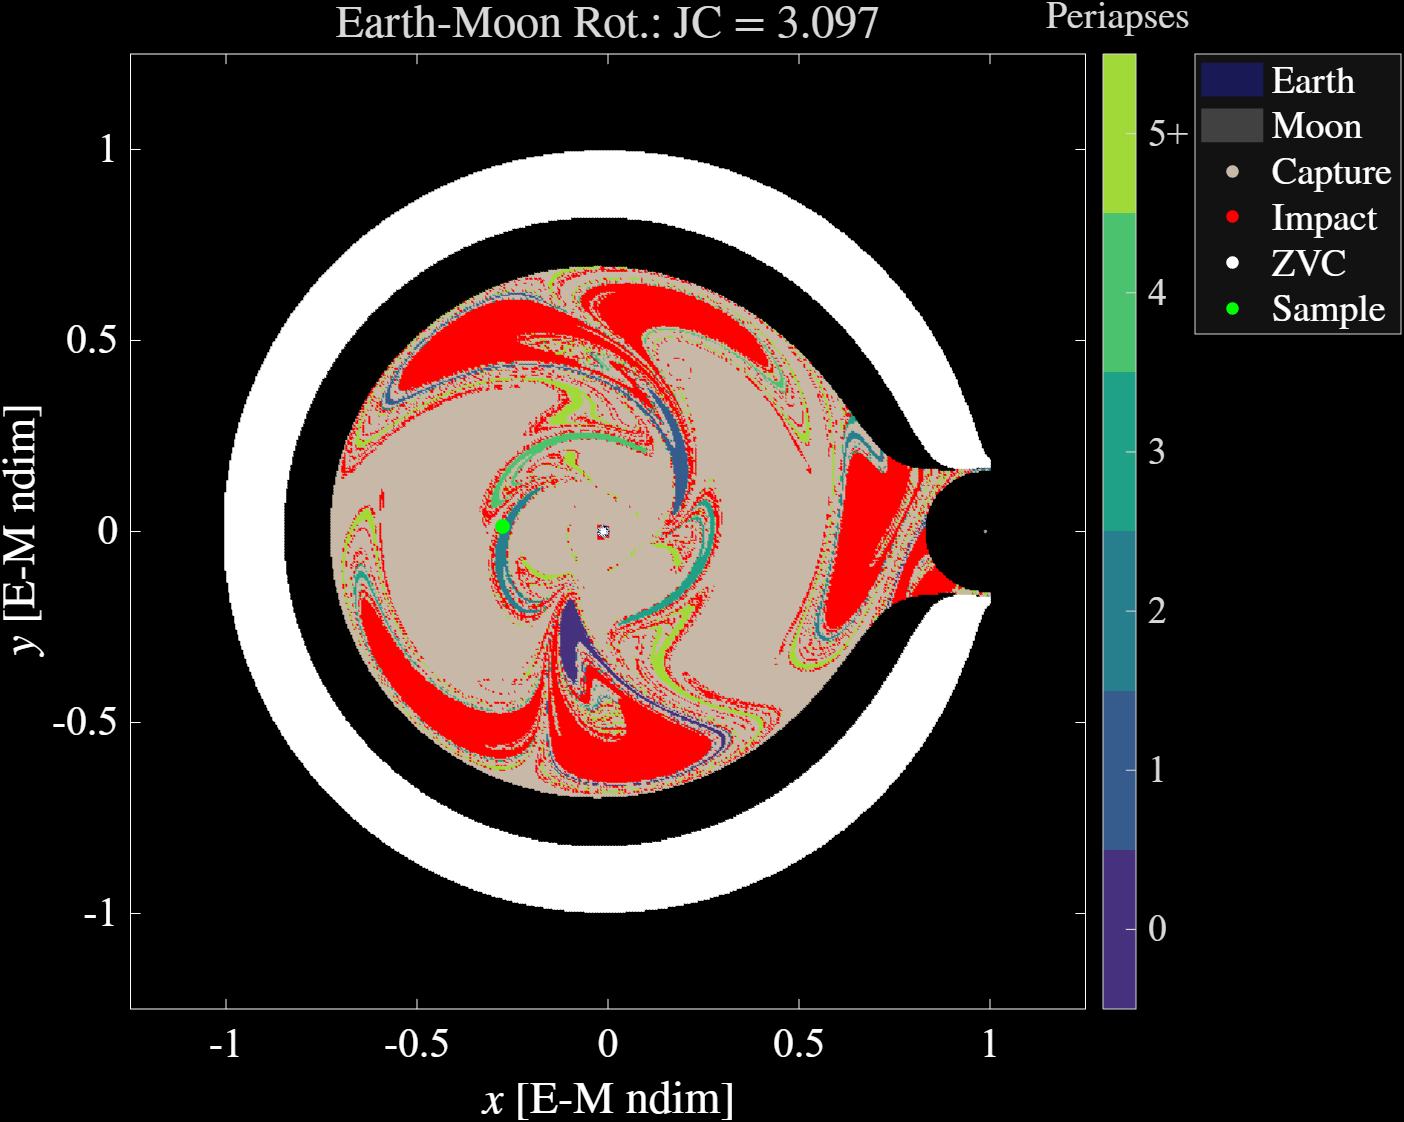
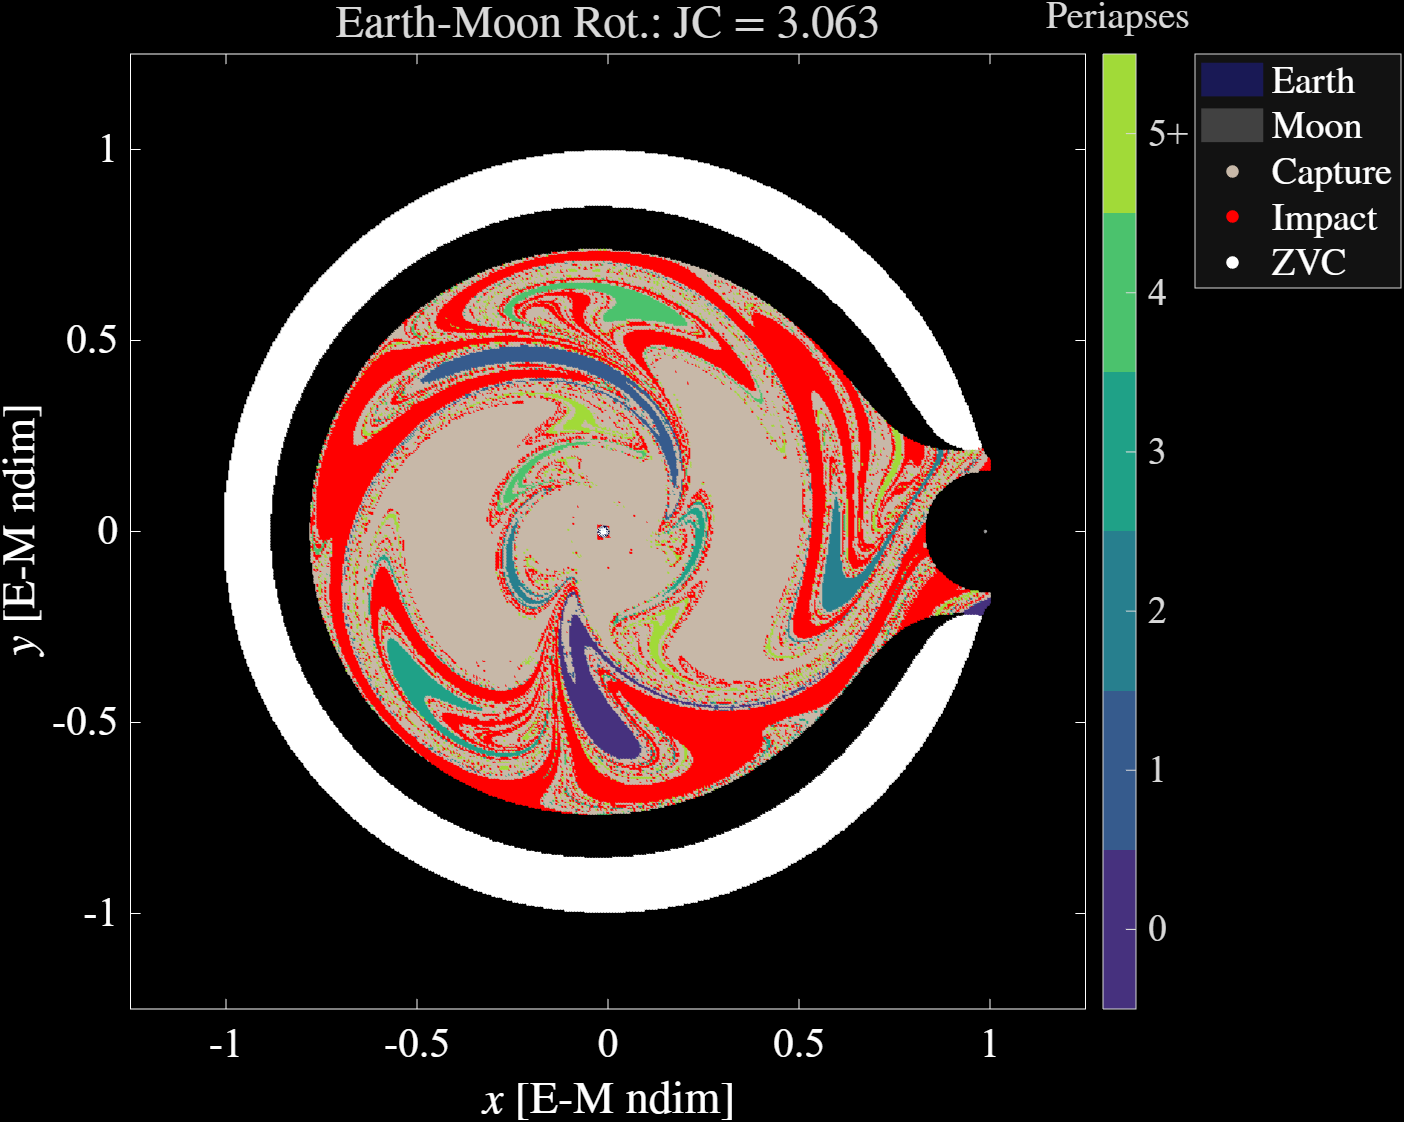
Updated EscapeCR3BP script

Changed region(s): [[0.1838, 0.156, 0.7044, 0.7799], [0.8575, 0.2184, 1.0, 0.3119], [0.5819, 0.0, 0.6432, 0.0312]]

diff --git a/EscapeCR3BP.m b/EscapeCR3BP.m
@@ -1,7 +1,7 @@
 %%% EscapeCR3BP.jl
 %%% Jonathan LeFevre Richmond
 %%% C: 16 June 2026
-%%% U: 10 September 2026
+%%% U: 17 September 2026
 
 clear
 
@@ -137,6 +137,7 @@ b4SE = sqrt(3)/2;
 b5SE = -b4SE;
 
 RSoIE = 0.09877*lstarSE; % Earth sphere of influence radius [km]
+rHill = 3.8897077389538994; % Earth Hill sphere radius
 
 %% Sun-Mars Data
 gmM = 4.282837362069909E4; % Mars gravitational parameter [km^3/s^2]
@@ -223,12 +224,12 @@ colorMap(10,:) = [1, 1, 1]; % ZVC
 % trajPeriStates = apseData.peris;
 % trajApoStates = apseData.apos;
 
-% xTrajSample = 0.192876;
-% yTrajSample = 0.434743;
-% trajIdx = find((abs(xPeri-xTrajSample) < 1E-5) & (abs(yPeri-yTrajSample) < 1E-5))
-% trajIdx = 63 % Indirect
-% trajIdx = 75 % Capture
-% trajIdx = 22 % Capture with option for high-energy maneuver
+% % xTrajSample = -0.0650211;
+% % yTrajSample = 0.208377;
+% % trajIdx = find((abs(xPeri-xTrajSample) < 1E-5) & (abs(yPeri-yTrajSample) < 1E-5))
+% % trajIdx = 63 % Indirect
+% trajIdx = 99 % Capture
+% % trajIdx = 22 % Capture with option for high-energy maneuver
 
 %% Map
 % fig1 = figure("Position", [200 100 1200 750]);
@@ -243,7 +244,9 @@ colorMap(10,:) = [1, 1, 1]; % ZVC
 % scatter(nan, nan, 20, colorMap(10,:), 'filled', 'DisplayName', "ZVC")
 % % scatter(xPeri, yPeri, 30, 'm', 'filled', 'DisplayName', "Manifold Peris.")
 % % scatter(xPeri(trajIdx), yPeri(trajIdx), 50, 'g', 'filled', 'DisplayName', "Sample")
-% % scatter(sol1.y(1,1), sol1.y(2,1), 50, 'g', 'filled', 'DisplayName', "Sample")
+% % scatter(sol1.y(1,1), sol1.y(2,1), 50, 'c', 'filled', 'HandleVisibility', 'off')
+% % scatter(sol2.y(1,1), sol2.y(2,1), 50, 'c', 'filled', 'HandleVisibility', 'off')
+% % scatter3(trajPeriStates(1,:), trajPeriStates(2,:), trajPeriStates(3,:), 50, 'c', 'o', 'filled', 'HandleVisibility', 'off')
 % axis equal
 % if primary == "Moon"
 %     axis([1-muEM-0.2 1-muEM+0.2 -0.2 0.2])
@@ -277,19 +280,12 @@ odeCR3BPEM = @(t,r) ODE_CR3BP(t, r, muEM);
 odeOpts = odeset('RelTol', 1E-12, 'AbsTol', 1E-12);
 
 %% Test Trajectory
-% xSample = -0.498998;
-% ySample = 0.0661323;
+% xSample = -0.158317;
+% ySample = 0.102204;
 % idx = find((abs(xGrid-xSample) < 1E-5) & (abs(yGrid-ySample) < 1E-5))
-
-% Perigee
 % idx = 46420 % Direct
 % idx = 124010 % Indirect
 % idx = 133530 % Failure
-
-% Prograde apogee
-% idx = 60181 % Failure
-
-% Retrograde apogee
 
 % q = map.q(:,idx);
 % % q = initialStates(:,trajIdx);
@@ -333,27 +329,25 @@ odeOpts = odeset('RelTol', 1E-12, 'AbsTol', 1E-12);
 
 %% Trajectory Analysis
 % solOrbit = ode89(odeCR3BPEM, [0 tOrbit], qOrbit, odeOpts);
-% 
 % disp("Initial State: ["+trajq0(1)+", "+trajq0(2)+", "+trajq0(3)+", "+trajq0(4)+", "+trajq0(5)+", "+trajq0(6)+"]")
-% disp("Original escape energy:"+trajEscE)
-% disp("Original escape velocity:"+trajEscv)
+% disp("Original departure energy:"+trajEscE)
+% disp("Original departure velocity:"+trajEscv)
 % tau = 12*pi;
 % sol = ode89(odeCR3BPEM, [0 periTimes(trajIdx)+tau], initialStates(:,trajIdx), odeOpts);
-% % if trajt1 > 0
-% %     sol0 = ode89(odeCR3BPEM, [0 trajt1], trajq0, odeOpts);
-% % end
-% % disp("Delta-v 1: "+trajDeltav1*1000*lstarEM/tstarEM+" m/s")
-% % disp("Indirect State: ["+trajq1(1)+", "+trajq1(2)+", "+trajq1(3)+", "+trajq1(4)+", "+trajq1(5)+", "+trajq1(6)+"]")
-% % if trajt2 > 0
-% %     sol1 = ode89(odeCR3BPEM, [trajt1 trajt1+trajt2], trajq1, odeOpts);
-% % end
-% % disp("Delta-v 2: "+trajDeltav2*1000*lstarEM/tstarEM+" m/s")
-% % disp("Escape State: ["+trajq2(1)+", "+trajq2(2)+", "+trajq2(3)+", "+trajq2(4)+", "+trajq2(5)+", "+trajq2(6)+"]")
-% % sol2 = ode89(odeCR3BPEM, [trajt1+trajt2 trajt1+trajt2+1.5*pi], trajq2, odeOpts);
-% % disp("New JC: "+trajNewJC)
-% % disp("New escape energy:"+trajNewEscE)
-% % disp("New escape velocity:"+trajNewEscv)
-% % disp("Escape metric:"+(trajNewEscv-trajEscv)/((abs(trajDeltav1)+abs(trajDeltav2))*lstarEM/tstarEM))
+% sol0 = ode89(odeCR3BPEM, [0 periTimes(trajIdx)+trajt1], initialStates(:,trajIdx), odeOpts);
+% disp("Delta-v 1: "+trajDeltav1*1000*lstarEM/tstarEM+" m/s")
+% disp("Indirect State: ["+trajq1(1)+", "+trajq1(2)+", "+trajq1(3)+", "+trajq1(4)+", "+trajq1(5)+", "+trajq1(6)+"]")
+% if trajt2 > 0
+%     sol1 = ode89(odeCR3BPEM, [trajt1 trajt1+trajt2], trajq1, odeOpts);
+% end
+% sol15 = ode89(odeCR3BPEM, [trajt1 trajt1+trajt2+1.5*pi], trajq1, odeOpts);
+% disp("Delta-v 2: "+trajDeltav2*1000*lstarEM/tstarEM+" m/s")
+% disp("Escape State: ["+trajq2(1)+", "+trajq2(2)+", "+trajq2(3)+", "+trajq2(4)+", "+trajq2(5)+", "+trajq2(6)+"]")
+% sol2 = ode89(odeCR3BPEM, [trajt1+trajt2 trajt1+trajt2+3*pi], trajq2, odeOpts);
+% disp("New JC: "+trajNewJC)
+% disp("New departure energy:"+trajNewEscE)
+% disp("New departure velocity:"+trajNewEscv)
+% disp("Departure metric:"+(trajNewEscv-trajEscv)/((abs(trajDeltav1)+abs(trajDeltav2))*lstarEM/tstarEM))
 
 % fig13 = figure("Position", [200 100 1200 750]);
 % hold on
@@ -363,34 +357,37 @@ odeOpts = odeset('RelTol', 1E-12, 'AbsTol', 1E-12);
 % set(Moon, 'DisplayName', "Moon")
 % scatter3(a1EM, 0, 0, 20, 'r', 'filled', 'd', 'DisplayName', "EM $L_{1}$")
 % scatter3(a2EM, 0, 0, 20, [1 0.5 0], 'filled', 'd', 'DisplayName', "EM $L_{2}$")
+% plot3(rHill.*cos(linspace(0, 2*pi, 1001)), rHill.*sin(linspace(0, 2*pi, 1001)), zeros(1,1001), 'w:', 'DisplayName', "Hills Sphere")
 % % plot3(solOrbit.y(1,:), solOrbit.y(2,:), solOrbit.y(3,:), 'g:', 'DisplayName', "Orbit")
 % p131 = plot3WithArrows(solOrbit.y(1,:), solOrbit.y(2,:), solOrbit.y(3,:), 'LineType', ':', 'Color', 'g', 'NumArrows', 2, 'ArrowScale', 5);
 % set(p131, 'DisplayName', "Orbit")
 % % plot3(sol.y(1,:), sol.y(2,:), sol.y(3,:), 'm', 'DisplayName', "Orig. Traj.")
 % p132 = plot3WithArrows(sol.y(1,:), sol.y(2,:), sol.y(3,:), 'Color', 'm', 'NumArrows', 10, 'ArrowScale', 1);
 % set(p132, 'DisplayName', "Orig. Traj.")
-% scatter3(trajq0(1), trajq0(2), trajq0(3), 50, 'g', 'o', 'filled', 'DisplayName', "Sample Perigee")
-% % if trajt1 > 0
-% %     % plot3(sol0.y(1,:), sol0.y(2,:), sol0.y(3,:), 'b', 'HandleVisibility', 'off')
-% %     p133 = plot3WithArrows(sol0.y(1,:), sol0.y(2,:), sol0.y(3,:), 'Color', 'b', 'NumArrows', 3, 'ArrowScale', 1.5);
-% %     set(p133, 'HandleVisibility', 'off')
-% % end
-% % if trajt2 > 0
-% %     % plot3(sol1.y(1,:), sol1.y(2,:), sol1.y(3,:), 'b', 'HandleVisibility', 'off')
-% %     p134 = plot3WithArrows(sol1.y(1,:), sol1.y(2,:), sol1.y(3,:), 'Color', 'b', 'NumArrows', 3, 'ArrowScale', 1.5);
-% %     set(p134, 'HandleVisibility', 'off')
-% % end
-% % % plot3(sol2.y(1,:), sol2.y(2,:), sol2.y(3,:), 'b', 'DisplayName', "Assisted Traj.")
-% % p135 = plot3WithArrows(sol2.y(1,:), sol2.y(2,:), sol2.y(3,:), 'Color', 'b', 'NumArrows', 2, 'ArrowScale', 1.5);
-% % set(p135, 'DisplayName', "Assisted Traj.")
-% % if abs(trajDeltav1) > 0
-% %     scatter3(sol1.y(1,1), sol1.y(2,1), sol1.y(3,1), 50, 'w', 's', 'filled', 'DisplayName', "Man. 1")
-% % end
-% % if abs(trajDeltav2) > 0
-% %     scatter3(sol2.y(1,1), sol2.y(2,1), sol2.y(3,1), 50, 'w', '^', 'filled', 'DisplayName', "Man. 2")
-% % end
+% % scatter(sol1.y(1,1), sol1.y(2,1), 50, 'c', 'filled', 'HandleVisibility', 'off')
+% % scatter3(trajPeriStates(1,:), trajPeriStates(2,:), trajPeriStates(3,:), 50, 'c', 'o', 'filled', 'HandleVisibility', 'off')
+% % scatter3(trajq0(1), trajq0(2), trajq0(3), 50, 'g', 'o', 'filled', 'DisplayName', "Sample Perigee")
+% plot3(sol0.y(1,:), sol0.y(2,:), sol0.y(3,:), 'b', 'DisplayName', "New Traj.")
+% % % plot3(sol15.y(1,:), sol15.y(2,:), sol15.y(3,:), 'b', 'HandleVisibility', 'off')
+% % p134 = plot3WithArrows(sol15.y(1,:), sol15.y(2,:), sol15.y(3,:), 'Color', 'b', 'NumArrows', 10, 'ArrowScale', 0.5);
+% % set(p134, 'HandleVisibility', 'off')
+% % scatter(sol2.y(1,1), sol2.y(2,1), 50, 'c', 'filled', 'HandleVisibility', 'off')
+% if trajt2 > 0
+%     % plot3(sol1.y(1,:), sol1.y(2,:), sol1.y(3,:), 'b', 'HandleVisibility', 'off')
+%     p134 = plot3WithArrows(sol1.y(1,:), sol1.y(2,:), sol1.y(3,:), 'Color', 'b', 'NumArrows', 5, 'ArrowScale', 1.2);
+%     set(p134, 'HandleVisibility', 'off')
+% end
+% % plot3(sol2.y(1,:), sol2.y(2,:), sol2.y(3,:), 'b', 'HandleVisibility', 'off')
+% p135 = plot3WithArrows(sol2.y(1,:), sol2.y(2,:), sol2.y(3,:), 'Color', 'b', 'NumArrows', 2, 'ArrowScale', 1);
+% set(p135, 'HandleVisibility', 'off')
+% if abs(trajDeltav1) > 0
+%     scatter3(sol1.y(1,1), sol1.y(2,1), sol1.y(3,1), 50, 'w', 's', 'filled', 'DisplayName', "Man. 1")
+% end
+% if abs(trajDeltav2) > 0
+%     scatter3(sol2.y(1,1), sol2.y(2,1), sol2.y(3,1), 50, 'w', '^', 'filled', 'DisplayName', "Man. 2")
+% end
 % axis equal
-% axis([-1.25 1.25 -1.25 1.25])
+% % axis([-1.25 1.25 -1.25 1.25])
 % % axis([1-muEM-0.3 1-muEM+0.3 -0.3 0.3])
 % grid on
 % xlabel("$x$ [E-M ndim]", 'Interpreter', 'latex')
@@ -412,7 +409,7 @@ odeOpts = odeset('RelTol', 1E-12, 'AbsTol', 1E-12);
 % disp("Initial State: ["+trajApo(1)+", "+trajApo(2)+", "+trajApo(3)+", "+trajApo(4)+", "+trajApo(5)+", "+trajApo(6)+"]")
 % tau = 12*pi;
 % sol = ode89(odeCR3BPEM, [0 tau], trajApo, odeOpts);
-% trajPeri = trajPeriStates(:,9);
+% trajPeri = trajPeriStates(:,10);
 % vMag = norm(trajPeri(4:6));
 % vhat = trajPeri(4:6)./vMag;
 % DeltavHigh = 1000*tstarEM/lstarEM/1000;
@@ -442,7 +439,7 @@ odeOpts = odeset('RelTol', 1E-12, 'AbsTol', 1E-12);
 % disp("New Altered Perigee State: ["+qHigh2(1)+", "+qHigh2(2)+", "+qHigh2(3)+", "+qHigh2(4)+", "+qHigh2(5)+", "+qHigh2(6)+"]")
 % tau2 = 2*pi;
 % sol2 = ode89(odeCR3BPEM, [0 tau2], qHigh2, odeOpts);
-
+% 
 % fig14 = figure("Position", [200 100 1200 750]);
 % hold on
 % Earth = plot3DBody("Earth", RE/lstarEM, [-muEM, 0, 0]);
@@ -501,9 +498,13 @@ odeOpts = odeset('RelTol', 1E-12, 'AbsTol', 1E-12);
 % d_min = min(ds_filt0);
 % d_max = max(ds_filt0);
 % 
-% % Deltav2s = analysisData.Deltav2s;
-% % escEs = analysisData.EscapeEs;
+% Deltav2s = analysisData.Deltav2s;
+% Deltav2bs = analysisData.Deltav2bs;
+% escvs = analysisData.Escapevs;
+% escvbs = analysisData.Escapevbs;
 % % DeltaEs = analysisData.DeltaEs;
+% gammas = analysisData.metrics;
+% gammabs = analysisData.metricbs;
 % 
 % escE = analysisData.escE;
 % escv = analysisData.escv;
@@ -517,15 +518,21 @@ odeOpts = odeset('RelTol', 1E-12, 'AbsTol', 1E-12);
 %% Escape Analysis
 % fig8 = figure("Position", [200 100 1200 750]);
 % hold on
-% scatter(Deltav2s.*1000.*lstarEM./tstarEM, escEs, 20, 'filled', 'HandleVisibility', 'off')
+% scatter(Deltav2s.*1000.*lstarEM./tstarEM, escvs, 20, 'filled', 'DisplayName', "Direct")
+% % scatter(Deltav2bs.*1000.*lstarEM./tstarEM, escvbs, 20, 'filled', 'DisplayName', "Indirect")
+% % scatter(Deltav2s.*1000.*lstarEM./tstarEM, gammas, 20, 'filled', 'DisplayName', "Direct")
+% % scatter(Deltav2bs.*1000.*lstarEM./tstarEM, gammabs, 20, 'filled', 'DisplayName', "Indirect")
 % % scatter(Deltav2s.*1000.*lstarEM./tstarEM, DeltaEs, 20, 'filled', 'HandleVisibility', 'off')
 % % scatter(Deltav2s.*1000.*lstarEM./tstarEM, flybys, 20, 'filled', 'HandleVisibility', 'off')
+% % ylim([-60 60])
 % xlabel("$\Delta v_{2}$ [m/s]", 'Interpreter', 'latex')
 % % xlabel("JC", 'Interpreter', 'latex')
-% ylabel("$\mathcal{E}_{esc}$ [km$^{2}$/s$^{2}$]", 'Interpreter', 'latex')
+% % ylabel("$\mathcal{v}_{dep}$ [km/s]", 'Interpreter', 'latex')
+% ylabel("$\gamma_{esc}$", 'Interpreter', 'latex')
 % % ylabel("$d\mathcal{E}_{esc}/d\alpha$ [km/s]", 'Interpreter', 'latex')
 % % ylabel("$r_{p}$ [km]", 'Interpreter', 'latex')
 % title("Maneuver Optimization", 'Interpreter', 'latex')
+% leg8 = legend('Location', 'bestoutside', 'Interpreter', 'latex');
 % set(gca, 'Color', 'k');
 % view(2)
 % hold off
@@ -535,8 +542,8 @@ odeOpts = odeset('RelTol', 1E-12, 'AbsTol', 1E-12);
 
 % qOrig = map.q(:,idx);
 % disp("IC: ["+qOrig(1)+", "+qOrig(2)+", "+qOrig(3)+", "+qOrig(4)+", "+qOrig(5)+", "+qOrig(6)+"]")
-% disp("Original escape energy:"+escE)
-% disp("Original escape velocity:"+escv)
+% disp("Original departure energy:"+escE)
+% disp("Original departure velocity:"+escv)
 % tauOrig = 12*pi;
 % solOrig = ode89(odeCR3BPEM, [0 tauOrig], qOrig, odeOpts);
 
@@ -555,8 +562,8 @@ odeOpts = odeset('RelTol', 1E-12, 'AbsTol', 1E-12);
 % solAssist2 = ode89(odeCR3BPEM, [0 tauAssist2], q2, odeOpts);
 
 % disp("New JC: "+newJC)
-% disp("New escape energy:"+newEscE)
-% disp("New escape velocity:"+newEscv)
+% disp("New departure energy:"+newEscE)
+% disp("New departure velocity:"+newEscv)
 
 % fig9 = figure("Position", [200 100 1200 750]);
 % hold on
@@ -712,8 +719,8 @@ odeOpts = odeset('RelTol', 1E-12, 'AbsTol', 1E-12);
 % % exportgraphics(fig5, 'EscapeCR3BP_5.png','BackgroundColor', 'k')
 
 %% Import JC Volume Data
-% volumeFile = 'E:/ApseMapData/CR3BPJCVolume_1_apo_pro_500_2.9_3.17.mat';
-% volumeDataFile = 'CR3BPJCVolume_1_apo_pro_500_2.9_3.17.mat';
+% volumeFile = 'E:/ApseMapData/CR3BPJCVolume_1_peri_pro_500_2.9_3.17.mat';
+% volumeDataFile = 'CR3BPJCVolume_1_peri_pro_500_2.9_3.17.mat';
 
 % volumeFields = who('-file', volumeFile);
 % nVolume = length(volumeFields);
@@ -867,6 +874,7 @@ odeOpts = odeset('RelTol', 1E-12, 'AbsTol', 1E-12);
 % DeltavColors = rdbuInvert(1000);
 % % DeltavColors = rdbu(1000);
 % maxDeltav = 30;
+% % maxDeltav = 50;
 % parfor j = 1:n
 %     if isnan(totalDeltavs(j))
 %         pointColors(j,:) = [1, 1, 1];
@@ -884,7 +892,7 @@ odeOpts = odeset('RelTol', 1E-12, 'AbsTol', 1E-12);
 % %         pointColors(j,:) = getColor(DeltavColors, maneuverMetrics(j)*1000, [0, maxDeltav]);        
 % %     end
 % % end
-
+% 
 % fig12 = figure("Position", [200 100 1200 750]);
 % hold on
 % scatter(xGrid, yGrid, 1.75, pointColors, 'filled', 'HandleVisibility', 'off')
@@ -894,8 +902,9 @@ odeOpts = odeset('RelTol', 1E-12, 'AbsTol', 1E-12);
 % set(Moon, 'DisplayName', "Moon")
 % scatter(nan, nan, 1.75, 'w', 'filled', 'DisplayName', "Infeasible")
 % % scatter(xPeri, yPeri, 30, 'm', 'filled', 'DisplayName', "Manifold Peris.")
-% % scatter3(sol2.y(1,1), sol2.y(2,1), sol2.y(3,1), 10, 'w', '^', 'filled', 'HandleVisibility', 'off')
-% % scatter3([xPeri(trajIdx), trajPeriStates(1,9)], [yPeri(trajIdx), trajPeriStates(2,9)], [0, trajPeriStates(3,9)], 10, 'w', '^', 'filled', 'HandleVisibility', 'off')
+% % scatter(sol1.y(1,1), sol1.y(2,1), 50, 'c', 'filled', 'HandleVisibility', 'off')
+% scatter(sol2.y(1,1), sol2.y(2,1), 50, 'c', 'filled', 'HandleVisibility', 'off')
+% % scatter(trajPeriStates(1,:), trajPeriStates(2,:), 50, 'c', 'o', 'filled', 'HandleVisibility', 'off')
 % axis equal
 % axis([-1.25 1.25 -1.25 1.25])
 % xlabel("$x$ [E-M ndim]", 'Interpreter', 'latex')
@@ -909,6 +918,7 @@ odeOpts = odeset('RelTol', 1E-12, 'AbsTol', 1E-12);
 % cb12.TickLabels = [string(-maxDeltav)+"+", string(-(maxDeltav-10):10:maxDeltav-10), string(maxDeltav)+"+"];
 % ylabel(cb12, "$\Delta v$ [m/s]", 'Interpreter', 'latex', 'Rotation', 0, 'VerticalAlignment', 'bottom', 'HorizontalAlignment', 'center');
 % cb12.Label.Position = cb12.Label.Position+[-3 31 0];
+% % cb12.Label.Position = cb12.Label.Position+[-3 51 0];
 % % colormap(copper)
 % % cb12 = colorbar;
 % % clim([0 maxDeltav])
